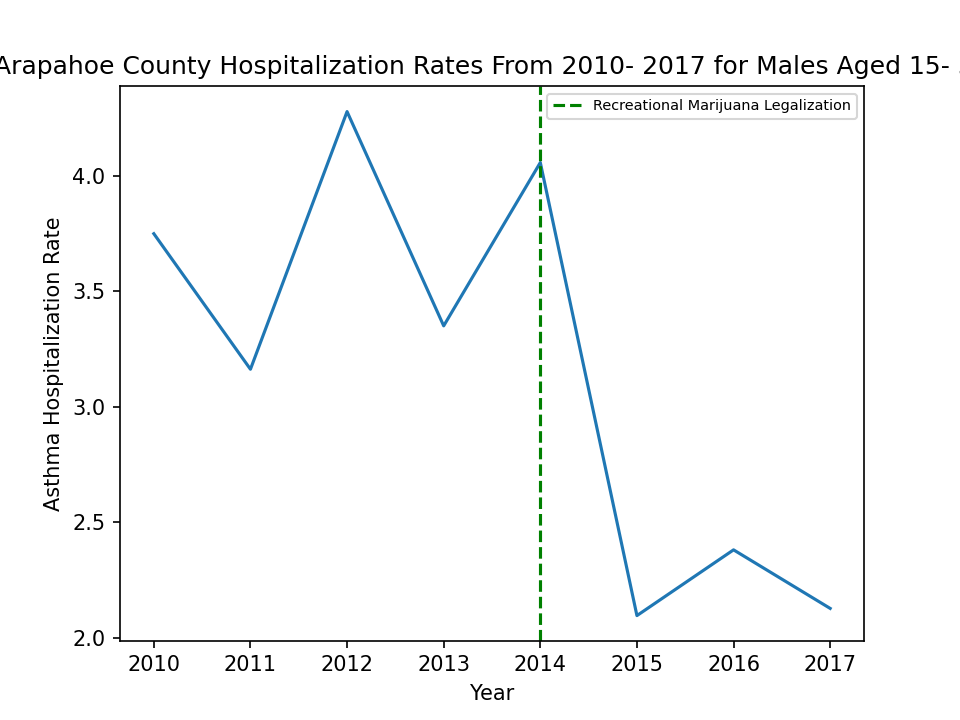
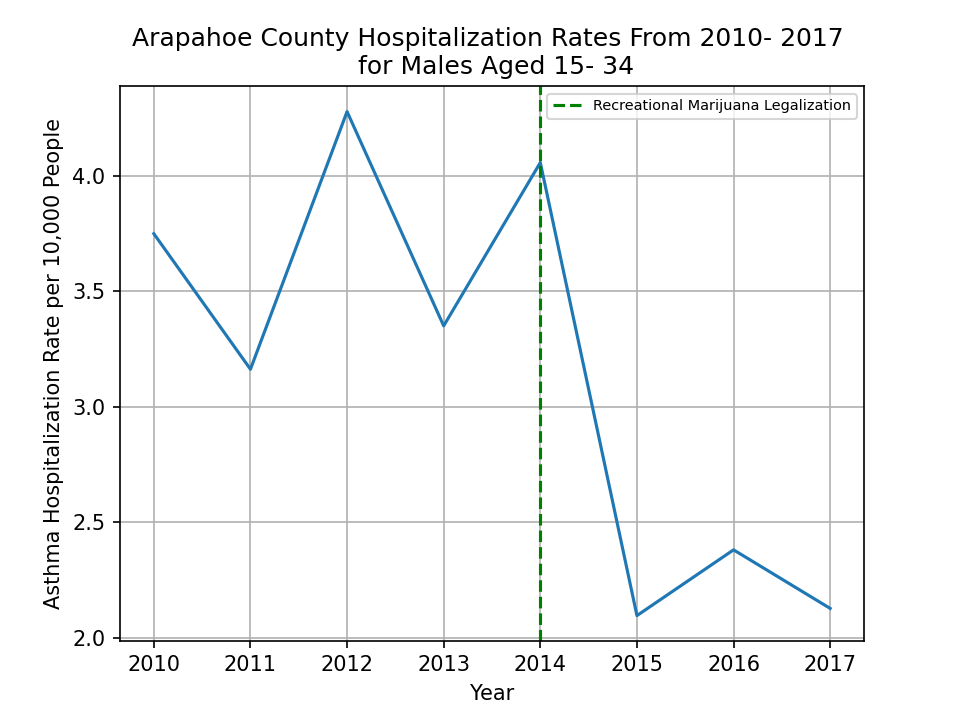
Another Update

diff --git a/src/plots.py b/src/plots.py
@@ -6,12 +6,14 @@ from math import sqrt
 from cleaning import statewide_high_level_filter, high_level_filter_arapahoe_county, high_level_filter_arapahoe_county_males, calc_pre_len_mean_variance_std, calc_post_len_mean_variance_std
 
 def statewide_high_level_line_plot(data):
+    # Generates
     fig, ax = plt.subplots(dpi=150)
     plt.plot(data["YEAR"], data["RATE"])
+    plt.grid()
     plt.axvline(x=2014, ls="--", color="green", label="Recreational Marijuana Legalization")
-    plt.title("Statewide Hospitalization Rates From 2010- 2017 for Both Genders and All Ages")
+    plt.title("Statewide Hospitalization Rates From 2010- 2017 \n for Both Genders and All Ages")
     plt.xlabel("Year")
-    plt.ylabel("Asthma Hospitalization Rate")
+    plt.ylabel("Asthma Hospitalization Rate per 10,000 People")
     plt.legend(loc="best", fontsize="x-small")
     plt.savefig("../images/Statewide_Hospitalization_Rates_From_2010_2017_for_Both_Genders_and_All_Ages.png")
     return plt
@@ -19,10 +21,11 @@ def statewide_high_level_line_plot(data):
 def high_level_filter_arapahoe_county_plot(data):
     fig, ax = plt.subplots(dpi=150)
     plt.plot(data["YEAR"], data["RATE"])
+    plt.grid()
     plt.axvline(x=2014, ls="--", color="green", label="Recreational Marijuana Legalization")
-    plt.title("Arapahoe County Hospitalization Rates From 2010- 2017 for Both Genders and All Ages")
+    plt.title("Arapahoe County Hospitalization Rates From 2010- 2017 \n for Both Genders and All Ages")
     plt.xlabel("Year")
-    plt.ylabel("Asthma Hospitalization Rate")
+    plt.ylabel("Asthma Hospitalization Rate per 10,000 People")
     plt.legend(loc="best", fontsize="x-small")
     plt.savefig("../images/Arapahoe_County_Hospitalization_Rates_From_2010_2017_for_Both_Genders_and_All_Ages.png")
     return plt
@@ -30,10 +33,11 @@ def high_level_filter_arapahoe_county_plot(data):
 def high_level_filter_arapahoe_county_males_plot(data):
     fig, ax = plt.subplots(dpi=150)
     plt.plot(data["YEAR"], data["RATE"])
+    plt.grid()
     plt.axvline(x=2014, ls="--", color="green", label="Recreational Marijuana Legalization")
-    plt.title("Arapahoe County Hospitalization Rates From 2010- 2017 for Males Aged 15- 34")
+    plt.title("Arapahoe County Hospitalization Rates From 2010- 2017 \n for Males Aged 15- 34")
     plt.xlabel("Year")
-    plt.ylabel("Asthma Hospitalization Rate")
+    plt.ylabel("Asthma Hospitalization Rate per 10,000 People")
     plt.legend(loc="best", fontsize="x-small")
     plt.savefig("../images/Arapahoe_County_Hospitalization_Rates_From_2010_2017_for_Males_Aged_15_to_34.png")
     return plt
@@ -48,8 +52,9 @@ def condenced_distribution_of_asthma_hospitalization_rates_plot(data1, data2):
     fig, ax = plt.subplots(dpi=150)
     pre_x = np.linspace(pre_mean - 3*pre_std, pre_mean + 3*pre_std, 100)
     post_x = np.linspace(post_mean - 3*post_std, post_mean + 3*post_std, 100)
+    plt.grid()
     plt.title("Distribution of Asthma Hospitalization Rates")
-    plt.xlabel("Hospitalization Rates")
+    plt.xlabel("Asthma Hospitalization Rate per 10,000 People")
     plt.ylabel("PDF")
     plt.axvline(x=pre_mean, ls="--", color="red", label=f"Pre- Mean: {round(pre_mean, 2)}")
     plt.axvline(x=post_mean, ls="--", color="blue", label=f"Post- Mean: {round(post_mean, 2)}")

diff --git a/src/cleaning.py b/src/cleaning.py
@@ -42,7 +42,7 @@ def high_level_filter_arapahoe_county_males():
 def remove_zeroes_and_nans():
     data = remove_uneeded_columns(asthma_data)
     # Removes 8,448 rows where RATE was zero
-    minus_rate_zero = data[data["RATE"] != 0] # Removes 8448 rows
+    minus_rate_zero = data[data["RATE"] != 0]
     # Removes rows where RATE is NaN
     minus_rate_nan = minus_rate_zero.dropna(subset=["RATE"])
     # Removes rows where AGE is NaN
@@ -50,6 +50,7 @@ def remove_zeroes_and_nans():
     return minus_age_nan
 
 def four_years_pre_legalization():
+    # From the remove zeroes and nans data this generates my pre legalization sample used for the calculations below
     scrubbed_data = remove_zeroes_and_nans()
     four_years_pre_legalization = scrubbed_data[(scrubbed_data["YEAR"] <= 2013) & 
                                  (scrubbed_data["YEAR"] >= 2010) &
@@ -67,6 +68,7 @@ def calc_pre_len_mean_variance_std():
     return pre_len, pre_mean, pre_variance, pre_std
 
 def four_years_post_legalization():
+    # From the remove zeroes and nans data this generates my post legalization sample used for the calculations below
     scrubbed_data = remove_zeroes_and_nans()
     four_years_post_legalization = scrubbed_data[(scrubbed_data["YEAR"] <= 2017) & 
                                  (scrubbed_data["YEAR"] >= 2014) &
@@ -84,6 +86,7 @@ def calc_post_len_mean_variance_std():
     return post_len, post_mean, post_variance, post_std
 
 def two_sided_ttest():
+    # Using both my pre and post samples this performs a Welches two tailed t-test
     data1 = four_years_pre_legalization()
     data2 = four_years_post_legalization()
     stat, p_value1 = stats.ttest_ind(data1["RATE"], data2["RATE"], equal_var=False)

diff --git a/README.md b/README.md
@@ -35,9 +35,18 @@ As one final basic comparison I took a look at the rates for my specific age gro
     </div>
 <br>
 
-
 ## Has Legalization of Recreational Marijuana had a Measurable Impact?
+From my prior analysis it appears as though asthma hospitalization rates have actually decreased. In order to more confidently state that rates have decreased I removed the filters I had in place to return more aggregated data in order to increase my sample size before conducting a T-Test and finding a p-value. In removing those filters to look at data on the county-level for each gender, for each of the five age groups, and for all counties I discovered significant inconsistancies. Though there were some counties that had reported data for both genders and each of the five age groups many did not. I'll disccuss this furthur in my lessons learned section, but to be as inclusive as possible used all data that at least had a rate, a gender, and an age group.
+
+I chose to use Welches T-test because because both of my sample sizes and variances were unequal. My null hypothesis was that the means of both samples were equal and my alternate hypothesis is that they are not. I first calculated Welches T-statistic and then used welch satterwithe to calculate degrees of freedom. Finnally, I plotted the p-value Region, as shown below, and calculated the p-value.
+
 [Figure 1.4]
+
+With a p- value of 3.7040031153345865e-07 as shown above I was able to reject the null hypothesis. Once rejected I still needed to answer the question did it difinitivly decrease. To do this I plotted the probability dencisty function
+
+for each sample from my data sets normal dis pdf of 
+
+[Figure 1.5]
     <div align="center">
         <img src="images/Condenced_Distribution_of_Asthma_Hospitalization_Rates.png" width="" height="">
     </div>
